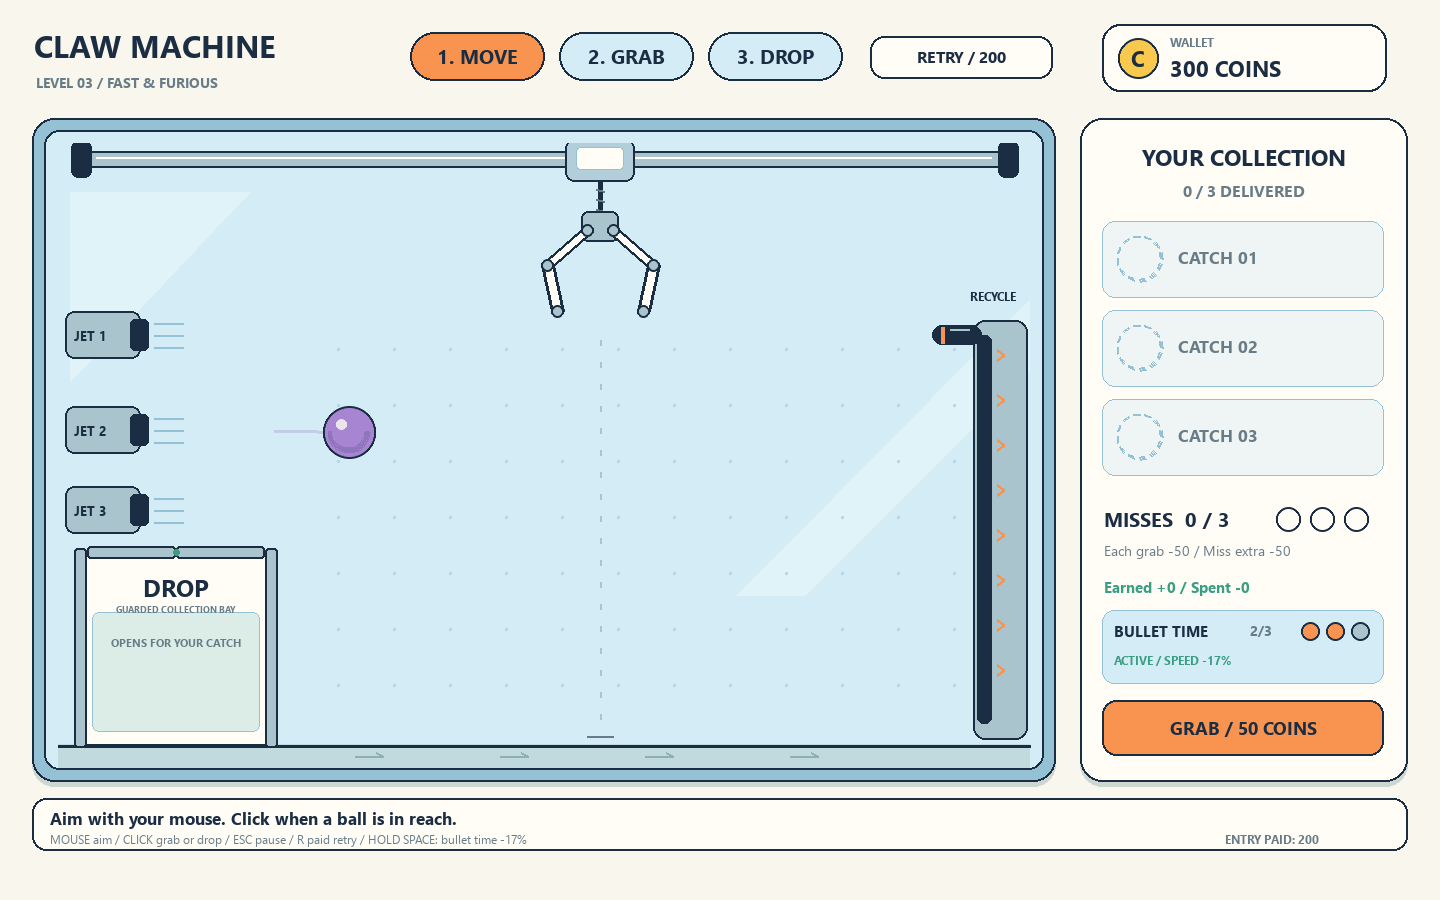
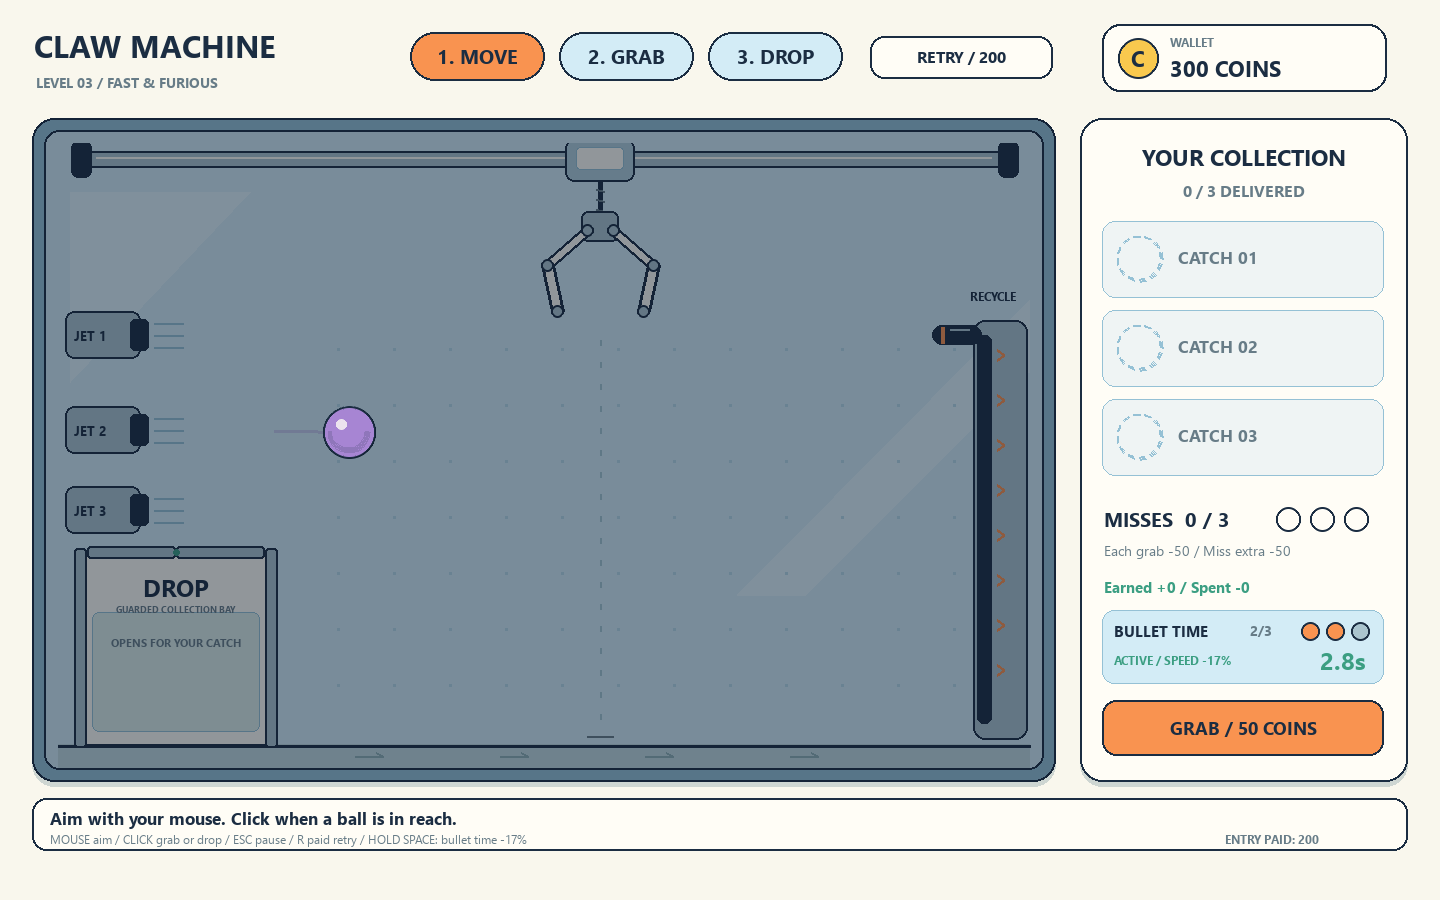
Add three-second bullet-time countdown and cabinet dimming

diff --git a/app_view.py b/app_view.py
@@ -2,7 +2,7 @@
 import pygame
 
 from campaign import ENTRY_COST, GRAB_COST, LEVEL_NAMES
-from model import State, PALETTE
+from model import State, PALETTE, BIN_LEFT, FLOOR
 from view import View, INK, CREAM, PAPER, BLUE, MID_BLUE, ORANGE, GREEN, RED, MUTED, STEEL, mix
 
 
@@ -33,6 +33,8 @@ class AppView(View):
         if app.screen == 'play':
             self.header(app.game)
             self.machine(app.game)
+            if app.game.bullet_time_active:
+                self.bullet_time_filter(app.game)
             self.sidebar(app.game, mouse)
             self.footer(app.game)
             if app.game.paused:
@@ -195,6 +197,21 @@ class AppView(View):
         self.button('retry', 'RETRY / 200', (870, 36, 183, 43), PAPER, size=16)
         self.wallet(1102, 24)
 
+    def bullet_time_filter(self, g):
+        # Darken the cabinet through a translucent layer with transparent
+        # circles over the existing balls; their original art/occlusion stays.
+        rect = pygame.Rect(32, 118, 1024, 664)
+        veil = pygame.Surface(rect.size, pygame.SRCALPHA)
+        pygame.draw.rect(veil, (12, 24, 42, 115), veil.get_rect(), border_radius=22)
+        for ball in g.balls:
+            if ball.kind == 'ball':
+                center = (round(ball.x-rect.x), round(ball.y-rect.y))
+                pygame.draw.circle(veil, (0, 0, 0, 0), center, round(ball.radius+2))
+        for i, _ in enumerate(g.collected):
+            center = (round(BIN_LEFT+43+i*54-rect.x), round(FLOOR-37-rect.y))
+            pygame.draw.circle(veil, (0, 0, 0, 0), center, 21)
+        self.canvas.blit(veil, rect)
+
     def sidebar(self, g, mouse):
         a = self.app
         self.box((1080, 118, 328, 664), PAPER, 22, shadow=True)
@@ -223,8 +240,10 @@ class AppView(View):
             self.text(f'{g.bullet_time_left}/3', 1261, 620, 14, MUTED, True, True)
             for i in range(3):
                 self.circle(1310+i*25, 631, 7, ORANGE if i < g.bullet_time_left else STEEL)
-            status = 'ACTIVE / SPEED -17%' if g.bullet_time_active else ('HOLD SPACE / 3 USES PER ROUND' if g.bullet_time_left else 'NO USES LEFT')
+            status = 'ACTIVE / SPEED -17%' if g.bullet_time_active else ('HOLD SPACE / 3s PER USE' if g.bullet_time_left else 'NO USES LEFT')
             self.text(status, 1114, 652, 12, GREEN if g.bullet_time_active else MUTED, True)
+            if g.bullet_time_active:
+                self.text(f'{g.bullet_time_remaining:.1f}s', 1343, 644, 24, GREEN, True, True)
         else:
             self.text('NEXT REWARD BY COLOR', 1104, 615, 11, MUTED, True)
             for i in range(6):
@@ -299,7 +318,7 @@ class AppView(View):
             ('COINS', 'Start with 500. Entry / retry: 200. Every grab: 50. Empty grab: extra 50.'),
             ('COLOR BONUS', 'First delivery of a color: +100. Every later ball of that color: +200.'),
             ('PROGRESS', 'Deliver 3 to clear a level. Make 3 empty grabs and the round ends.'),
-            ('BULLET TIME', 'Level 3: hold SPACE to slow balls and bullets 17%. Release to stop. 3 uses per round.'),
+            ('BULLET TIME', 'Level 3: hold SPACE for -17% speed. 3 uses, up to 3.0s each. Release to stop early.'),
             ('RESET ALL', 'Need 250 for entry + first grab, or 50 to grab mid-round. Reset if short.'),
         ]
         for i, (title, body) in enumerate(rows):
@@ -322,7 +341,7 @@ class AppView(View):
         self.bullet(985, 374, 2.2)
         self.text('BULLETS', 985, 449, 25, RED, True, True)
         self.text('Cannot be grabbed. Let them pass.', 985, 497, 19, MUTED, center=True)
-        self.text('HOLD SPACE: BALLS & BULLETS -17% SPEED / 3 USES', 720, 580, 22, GREEN, True, True)
+        self.text('HOLD SPACE: -17% SPEED / 3 USES / 3.0s EACH', 720, 580, 22, GREEN, True, True)
         self.text('Release to restore speed. ESC pauses. Each grab costs 50; an empty grab costs 50 more.', 720, 618, 17, bold=True, center=True)
         self.text('The entry fee is charged only when you press START below.', 720, 644, 18, MUTED, center=True)
         self.button('briefing_start', 'START LEVEL 3 / 200 COINS', (395, 701, 650, 65))

diff --git a/test_bullet_time.py b/test_bullet_time.py
@@ -121,8 +121,94 @@ class BulletTimeTests(unittest.TestCase):
         self.assertAlmostEqual(ball.x-g.claw_x, g.held_offset[0])
         self.assertAlmostEqual(ball.y-g.claw_y, g.held_offset[1])
 
+    def test_countdown_expires_after_three_unscaled_seconds(self):
+        g = Game(7, 3)
+        g.start_bullet_time()
+        self.assertEqual(g.bullet_time_remaining, 3.0)
+        advance(g, 359)
+        self.assertTrue(g.bullet_time_active)
+        self.assertGreater(g.bullet_time_remaining, 0)
+        advance(g, 1)
+        self.assertFalse(g.bullet_time_active)
+        self.assertEqual(g.bullet_time_remaining, 0)
+        self.assertEqual(g.bullet_time_left, 2)
+        advance(g, 240)
+        self.assertEqual(g.bullet_time_left, 2)
+
+    def test_slow_frame_cannot_extend_timer_and_release_clears_countdown(self):
+        g = Game(7, 3)
+        g.start_bullet_time()
+        g.update(3.0)
+        self.assertFalse(g.bullet_time_active)
+        self.assertEqual(g.bullet_time_remaining, 0)
+        g.start_bullet_time()
+        advance(g, 60)
+        g.end_bullet_time()
+        self.assertEqual(g.bullet_time_remaining, 0)
+        self.assertEqual(g.bullet_time_left, 1)
+
+    def test_dark_filter_preserves_ball_colors_and_does_not_cover_ui(self):
+        from app_view import AppView
+        a = Campaign(seed=7)
+        a.progress.unlocked = 3
+        a.request_start(3)
+        a.accept_briefing()
+        a.game.balls = [Ball(100, 650, 420)]
+        a.game.collected = [(0, 77)]
+        v = AppView()
+        before = v.draw_app(a).copy()
+        a.game.start_bullet_time()
+        filtered = v.draw_app(a).copy()
+        for point in ((650, 420), (121, 709), (1120, 130)):
+            self.assertEqual(before.get_at(point), filtered.get_at(point))
+        for original, dark in zip(before.get_at((800, 600))[:3], filtered.get_at((800, 600))[:3]):
+            self.assertLess(dark, original)
+        a.game.end_bullet_time()
+        after = v.draw_app(a)
+        self.assertEqual(before.get_at((800, 600)), after.get_at((800, 600)))
+
 
 class KeyboardTests(unittest.TestCase):
+    def test_held_space_after_expiry_cannot_spend_another_use_until_released(self):
+        a = Campaign(seed=7)
+        a.progress.unlocked = 3
+        a.request_start(3)
+        a.accept_briefing()
+        phase = 0
+
+        def event(kind):
+            return [pygame.event.Event(kind, key=pygame.K_SPACE)]
+
+        def events():
+            nonlocal phase
+            phase += 1
+            if phase in (1, 2, 4, 6):
+                if phase == 4:
+                    self.assertFalse(a.game.bullet_time_active)
+                    self.assertEqual(a.game.bullet_time_left, 2)
+                return event(pygame.KEYDOWN)
+            if phase == 3:
+                return []
+            if phase == 5:
+                self.assertFalse(a.game.bullet_time_active)
+                self.assertEqual(a.game.bullet_time_left, 2)
+                return event(pygame.KEYUP)
+            if phase == 7:
+                self.assertTrue(a.game.bullet_time_active)
+                self.assertEqual(a.game.bullet_time_left, 1)
+                return [pygame.event.Event(pygame.QUIT)]
+            raise AssertionError('Expiry key flow did not finish.')
+
+        class Clock:
+            def tick(self, fps):
+                return 1000
+
+        with patch('sys.argv', ['main.py']), \
+             patch('campaign.Campaign', return_value=a), \
+             patch('pygame.time.Clock', Clock), \
+             patch('pygame.event.get', events):
+            self.assertEqual(main.main(), 0)
+
     def test_real_space_hold_repeat_release_esc_and_focus_loss(self):
         a = Campaign(seed=7)
         a.progress.unlocked = 3

diff --git a/model.py b/model.py
@@ -19,6 +19,7 @@ RADIUS, GRAVITY, FINGER_RADIUS = 24.0, 365.0, 5.0
 FIXED_DT = 1 / 120
 BULLET_TIME_SCALE = 0.83
 BULLET_TIME_USES = 3
+BULLET_TIME_DURATION = 3.0
 PALETTE = (
     ("CORAL", (248, 111, 106)), ("SKY", (72, 152, 234)),
     ("LEMON", (249, 201, 78)), ("MINT", (75, 190, 161)),
@@ -122,6 +123,7 @@ class Game:
         self.paused = False
         self.bullet_time_left = BULLET_TIME_USES if self.level == 3 else 0
         self.bullet_time_held = False
+        self.bullet_time_remaining = 0.0
         self.clock = 0.0
         self.state_time = 0.0
         self.accumulator = 0.0
@@ -149,10 +151,12 @@ class Game:
             return False
         self.bullet_time_left -= 1
         self.bullet_time_held = True
+        self.bullet_time_remaining = BULLET_TIME_DURATION
         return True
 
     def end_bullet_time(self):
         self.bullet_time_held = False
+        self.bullet_time_remaining = 0.0
 
     def set_paused(self, paused):
         self.paused = paused
@@ -262,6 +266,12 @@ class Game:
     def update(self, elapsed):
         if self.paused or self.terminal:
             return
+        # Count down unscaled elapsed time, including time discarded by the
+        # physics catch-up cap after a slow frame. Holding cannot extend a use.
+        if self.bullet_time_active:
+            self.bullet_time_remaining = max(0.0, self.bullet_time_remaining - max(0.0, elapsed - 0.1))
+            if self.bullet_time_remaining <= 1e-9:
+                self.end_bullet_time()
         self.accumulator += min(max(elapsed, 0.0), 0.1)
         while self.accumulator >= FIXED_DT:
             self._step(FIXED_DT)
@@ -271,7 +281,8 @@ class Game:
                 break
 
     def _step(self, dt):
-        world_dt = dt * (BULLET_TIME_SCALE if self.bullet_time_active else 1)
+        slow_dt = min(dt, self.bullet_time_remaining) if self.bullet_time_active else 0.0
+        world_dt = dt - slow_dt * (1 - BULLET_TIME_SCALE)
         if self.level > 1:
             self._spawn_stream(world_dt)
         self.clock += dt
@@ -370,6 +381,10 @@ class Game:
             if int(self.clock * 120) % 4 == 0:
                 b.trail.append((b.x, b.y))
                 del b.trail[:-7]
+        if self.bullet_time_active:
+            self.bullet_time_remaining = max(0.0, self.bullet_time_remaining - dt)
+            if self.bullet_time_remaining <= 1e-9:
+                self.end_bullet_time()
 
     @property
     def jet_heights(self):

diff --git a/PROCESS.md b/PROCESS.md
@@ -84,10 +84,16 @@ only in all levels. Space now has no action in Levels 1 and 2.
 Each new Space press in Level 3 consumes one use and slows free balls, bullets
 and the launch stream to 83% while held. The claw and delivered balls remain at
 normal speed. Release restores normal timing without changing stored velocities,
-so repeated presses do not compound the slowdown. A continuous hold has no extra
-time limit. Repeated key events are ignored. The right panel and pre-level
-briefing explain the control and remaining uses. This uses existing procedural
-illustration rather than adding external art assets.
+so repeated presses do not compound the slowdown. The student then requested a
+dark environmental filter and a 3.0-second countdown. Each activation now lasts
+up to three ordinary seconds, even during slow frames. Holding beyond expiry
+cannot spend another use; the player must release and press again.
+
+The cabinet is darkened by a translucent layer with transparent masks over the
+balls, including held and collected balls, preserving their existing art and
+occlusion. The wallet and controls remain outside the filter. The right panel
+shows seconds left and remaining uses; the pre-level briefing explains the limit.
+This uses existing procedural illustration rather than adding external art.
 
 Pause, focus loss, retry/reset screens and results end the effect. A spent use
 is not refunded; a fresh paid Level 3 round gets three uses. Automated tests

diff --git a/README.md b/README.md
@@ -90,10 +90,14 @@ and net earnings. Best earnings mean gross rewards in a completed round.
    Reading it is free; its START button charges the fee.
    **Bullet time:** hold Space for 83% ball/bullet speed; release for normal speed.
    There are three activations per paid Level 3 round. A continuous hold uses one
-   activation, with no additional time limit. Repeated key events do not use extra
-   chances. The claw and released deliveries keep their normal speed. The launch
+   activation, lasting at most **3.0 seconds**. The visible countdown uses ordinary
+   time, so the slowdown does not stretch its duration. At zero, speed restores;
+   release and press Space again to use another chance. Repeated key events do
+   not use extra chances. The claw and released deliveries keep their normal speed. The launch
    stream also slows so extra balls do not pile up. The right panel shows three
-   remaining-use dots and whether the effect is active.
+   remaining-use dots, active status and seconds left. While active, a dark filter
+   covers the cabinet environment while balls keep their original brightness.
+   The collection panel, wallet and controls stay readable.
 
 Pausing, switching windows, opening retry/reset or ending the round cancels active
 bullet time. The spent use is not refunded. Resume with Esc; a new activation needs

diff --git a/VALIDATION.md b/VALIDATION.md
@@ -1,5 +1,17 @@
 # Validation record — 24 October 2026
 
+## Bullet-time filter and countdown — 29 October 2026
+
+All **53 automated tests passed**. Four additional checks verify expiry after
+three unscaled seconds, expiry across a long frame, early-release cancellation,
+and held-key repeat behavior after expiry. The visual check compares rendered
+pixels to confirm cabinet dimming while ball colors, collected balls and UI
+remain unchanged, then verifies normal background restoration on release.
+
+The active filter/countdown, inactive state, instructions and Level 3 briefing
+were rendered and visually inspected. Every level continues to use Esc only
+for manual pause/resume. Real participant validation remains pending.
+
 ## Level 3 bullet time and Esc-only pause — 29 October 2026
 
 All **49 automated tests passed**. Eight new checks cover the three-use limit,
